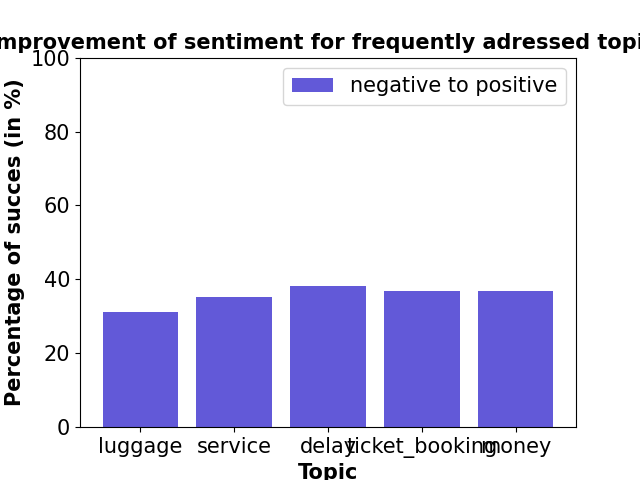
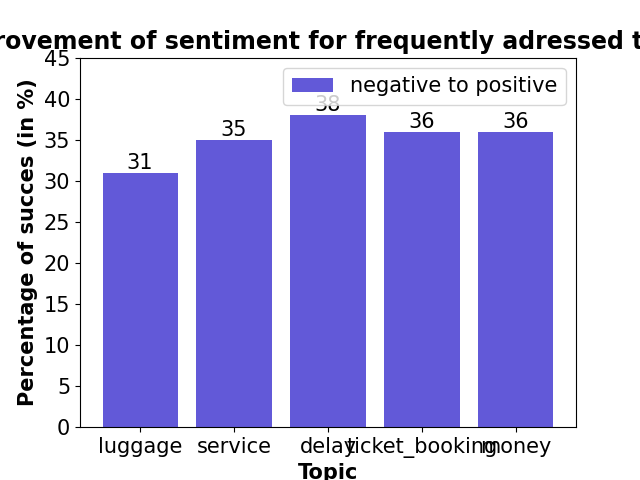
last changes graphs

diff --git a/Code_for_plots/Extra_3.py b/Code_for_plots/Extra_3.py
@@ -78,16 +78,20 @@ def sentiment_change_per_topic(topic_occurance_dct):
 
     v = np.array(v)
 
-    plt.bar(range(len(c)), v[:,1]/v[:,0]*100, color = '#6259D8')
-    #plt.bar(range(len(c)), v[:,2]/v[:,0]*100, bottom=v[:,1]/v[:,0]*100)
+    fig, ax = plt.subplots()
+    plot = ax.bar(range(len(c)), v[:,1]*100//v[:,0], color = '#6259D8')
     plt.xticks(range(len(c)), c, size = 15)
 
-    plt.title("Improvement of sentiment for frequently adressed topics", size = 15, weight = 'bold')
+    plt.title("Improvement of sentiment for frequently adressed topics", size = 17, weight = 'bold')
     plt.xlabel("Topic", size = 15, weight = 'bold')
     plt.ylabel("Percentage of succes (in %)", size = 15, weight = 'bold')
     plt.legend(["negative to positive", "negative to neutral"], prop={'size': 15})
-    plt.ylim(0,100)
     plt.yticks(size = 15)
+    plt.ylim(0,45)
+
+    for plot in ax.containers:
+        print(plot)
+        ax.bar_label(plot, size=15)
 
     plt.savefig("Plots_for_demo/Extra_3.png")
     plt.close()

diff --git a/Code_for_plots/Extra_1.py b/Code_for_plots/Extra_1.py
@@ -45,7 +45,7 @@ def plot_amount_reply(df):
     ax.legend(["Responded", "Directed to KLM"], prop={'size': 15})
     ax.set_xlabel("Week of the year (year-week)", size = 15, weight = 'bold')
     ax.set_ylabel("Amount of tweets", size = 15, weight = 'bold')
-    ax.set_title("Amount of tweets with a negative sentiment directed to KLM, compared to reponded", size = 17, weight = 'bold')
+    ax.set_title("Amount of tweets with a negative sentiment directed to KLM, compared to reponded", size = 18, weight = 'bold')
     plt.xticks(rotation = 90, size = 17)
     plt.yticks(size = 17)
     
